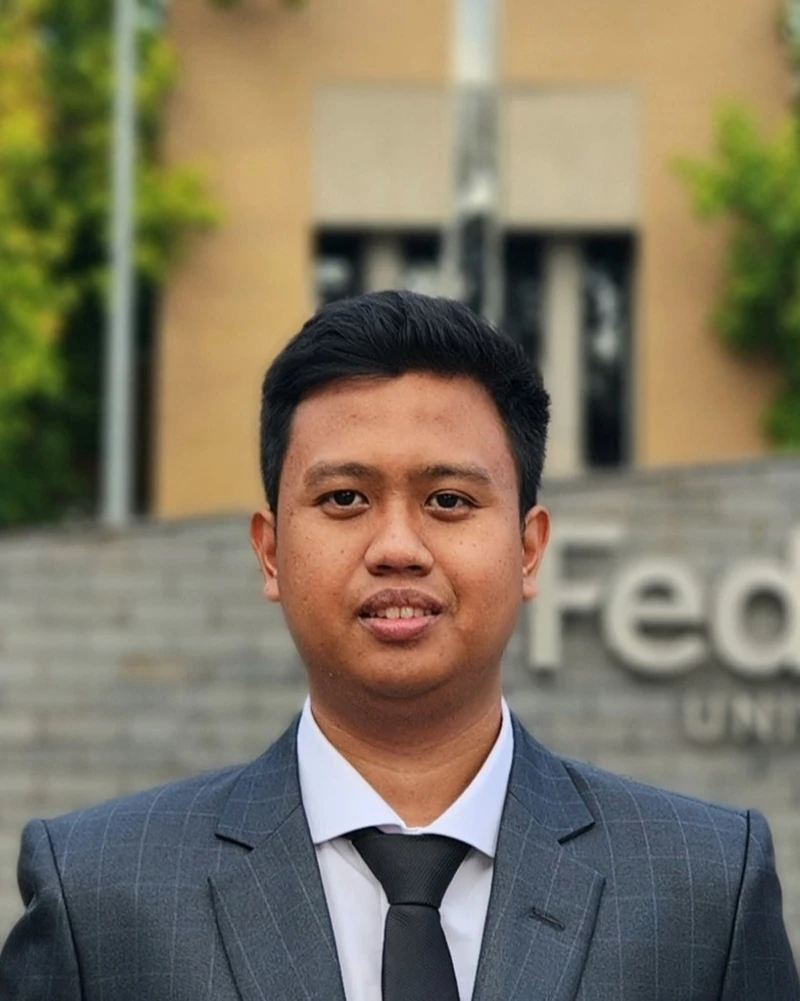
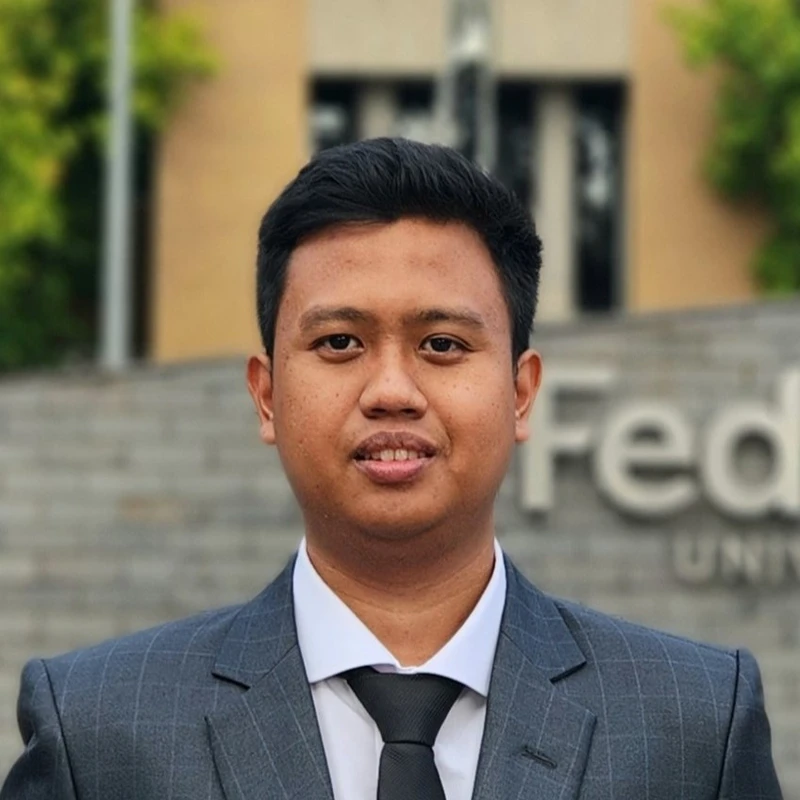
Deploying to gh-pages from @ falihgoz/falihgoz.github.io@43c6b7caa3d3a48714afa776358fb69be9a6f297 🚀

diff --git a/index.html b/index.html
@@ -113,7 +113,7 @@
           <h1 class="post-title">
            <span class="font-weight-bold">Falih</span> G. Febrinanto
           </h1>
-          <p class="desc">PhD candidate at <a href="#">Federation University Australia</a> and at <a href="#">CSIRO's Data61</a>.</p>
+          <p class="desc">Ballarat, VIC 3350, Australia</p>
         </header>
 
         <article>
@@ -129,7 +129,7 @@
     
 
     <!-- Fallback to the original file -->
-    <img src="/assets/img/prof_pic.jpg" class="img-fluid z-depth-1 rounded" width="auto" height="auto" alt="prof_pic.jpg" onerror="this.onerror=null; $('.responsive-img-srcset').remove();">
+    <img src="/assets/img/prof_pic.jpg" class="img-fluid z-depth-1 rounded-circle" width="auto" height="auto" alt="prof_pic.jpg" onerror="this.onerror=null; $('.responsive-img-srcset').remove();">
 
   </picture>
 
@@ -151,17 +151,18 @@
               </div>
             </div>
             <div class="address">
-              <p>Room 160, Building T</p> <p>1 University Dr</p> <p>Ballarat, VIC 3350</p> <p>Australia</p>
-
+              
             </div>
           </div>
 
           <div class="clearfix">
-            <p>Changed Tell the world about yourself. Link to your favorite <a href="http://reddit.com" rel="external nofollow noopener" target="_blank">subreddit</a>. You can put a picture in, too. The code is already in, just name your picture <code class="language-plaintext highlighter-rouge">prof_pic.jpg</code> and put it in the <code class="language-plaintext highlighter-rouge">img/</code> folder.</p>
+            <p>Welcome! I am a PhD candidate at <a href="https://federation.edu.au/" rel="external nofollow noopener" target="_blank">Federation University Australia, Australia</a>, and I am also affiliated with <a href="https://research.csiro.au/cybersecurity-quantum-systems/" rel="external nofollow noopener" target="_blank">CSIRO’s Data61</a>. During my candidature, I have been supported by the <a href="https://www.csiro.au/en/careers/scholarships-student-opportunities/postgraduate-programs-and-scholarships/data61-scholarships" rel="external nofollow noopener" target="_blank">Data61 PhD Scholarship</a>.</p>
 
-<p>Put your address / P.O. box / other info right below your picture. You can also disable any of these elements by editing <code class="language-plaintext highlighter-rouge">profile</code> property of the YAML header of your <code class="language-plaintext highlighter-rouge">_pages/about.md</code>. Edit <code class="language-plaintext highlighter-rouge">_bibliography/papers.bib</code> and Jekyll will render your <a href="/al-folio/publications/">publications page</a> automatically.</p>
+<p>I hold a Master of Technology degree from <a href="https://federation.edu.au/" rel="external nofollow noopener" target="_blank">Federation University Australia, Australia</a>, specializing in enterprise systems and business analytics. Before that, I completed my Bachelor of Computer Science from <a href="https://ub.ac.id/" rel="external nofollow noopener" target="_blank">Brawijaya University, Indonesia</a>.</p>
 
-<p>Link to your social media connections, too. This theme is set up to use <a href="http://fortawesome.github.io/Font-Awesome/" rel="external nofollow noopener" target="_blank">Font Awesome icons</a> and <a href="https://jpswalsh.github.io/academicons/" rel="external nofollow noopener" target="_blank">Academicons</a>, like the ones below. Add your Facebook, Twitter, LinkedIn, Google Scholar, or just disable all of them.</p>
+<p>I am interested in the fields of <code class="language-plaintext highlighter-rouge">Artificial Intelligence, Graph Learning, and Anomaly Detection</code>. Recently, my research has been centred around harnessing the capabilities of graph neural networks to detect anomalies. In the past year, I have been actively applying this technique to different domains, such as cyber-physical systems and the detection of brain diseases.</p>
+
+<p>E-mail: <code class="language-plaintext highlighter-rouge">f[dot]febrinanto[at]federation[dot]edu[dot]au; falih[dot]febrinanto[at]csiro[dot]data61[dot]au</code></p>
 
           </div>
 

diff --git a/publications/index.html b/publications/index.html
@@ -12,7 +12,8 @@
     <meta http-equiv="X-UA-Compatible" content="IE=edge">
     <title>publications | Falih G. Febrinanto</title>
     <meta name="author" content="Falih G. Febrinanto">
-    <meta name="description" content="publications by categories in reversed chronological order. generated by jekyll-scholar.">
+    <meta name="description" content="A simple, whitespace theme for academics. Based on [*folio](https://github.com/bogoli/-folio) design.
+">
     <meta name="keywords" content="jekyll, jekyll-theme, academic-website, portfolio-website">
 
 
@@ -111,7 +112,7 @@
 
           <header class="post-header">
             <h1 class="post-title">publications</h1>
-            <p class="post-description">publications by categories in reversed chronological order. generated by jekyll-scholar.</p>
+            <p class="post-description"></p>
           </header>
 
           <article>
@@ -317,7 +318,7 @@
 <li>
 <!-- _layouts/bib.html -->
       <div class="row">
-        <div class="col-sm-2 abbr"><abbr class="badge">IEEE Trans. Comput.</abbr></div>
+        <div class="col-sm-2 abbr"><abbr class="badge">Trans. Comput.</abbr></div>
 
         <!-- Entry bib key -->
         <div id="yu2022pandora" class="col-sm-8">

diff --git a/assets/css/main.css b/assets/css/main.css
@@ -225,7 +225,6 @@ blockquote {
 .profile .address {
   margin-bottom: 5px;
   margin-top: 5px;
-  font-family: monospace;
 }
 .profile .address p {
   display: inline-block;
@@ -246,6 +245,7 @@ blockquote {
   }
   .profile .address p {
     display: block;
+    text-align: right;
   }
 }
 .post-description {
@@ -367,7 +367,7 @@ blockquote {
   text-align: center;
 }
 .social .contact-icons {
-  font-size: 2.5rem;
+  font-size: 2.2rem;
 }
 .social .contact-icons a i::before {
   color: var(--global-text-color);
